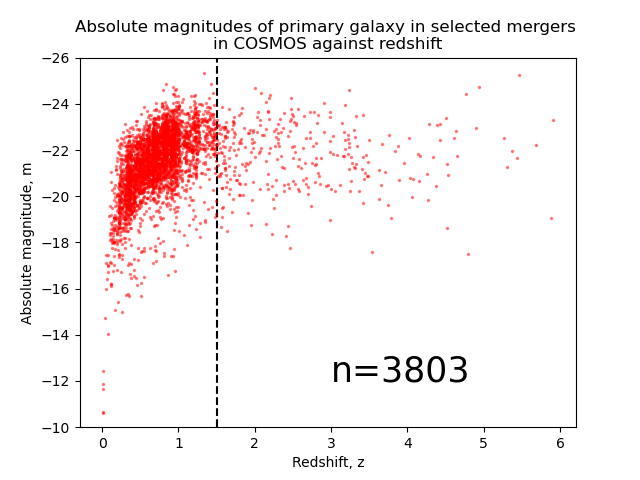
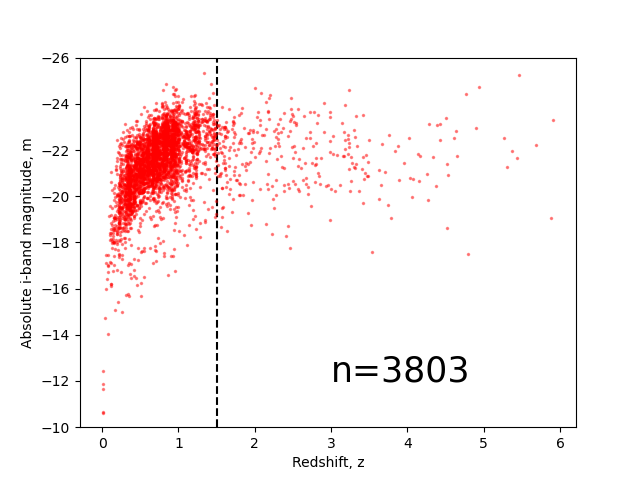
Added clearer y-axis

Changed region(s): [[0.125, 0.0312, 0.9062, 0.125], [0.0312, 0.2812, 0.0625, 0.7188]]

diff --git a/plots/plotting_code/main_plots/abs_mag_z.py b/plots/plotting_code/main_plots/abs_mag_z.py
@@ -143,9 +143,9 @@ def generate_i_band(data):
 
     plt.errorbar(z_pdf, i_mag, alpha=0.4, c='red',fmt='.', markersize=3, ecolor='black', elinewidth=1,label='i-mag')
     plt.plot([1.5] * (-10 - -27), [-10 - i for i in range(0, 17)], linestyle='--', c='black')
-    plt.title(f'Absolute magnitudes of primary galaxy in selected mergers \nin COSMOS against redshift')
+    # plt.title(f'Absolute magnitudes of primary galaxy in selected mergers \nin COSMOS against redshift')
     plt.xlabel('Redshift, z')
-    plt.ylabel('Absolute magnitude, m')
+    plt.ylabel('Absolute i-band magnitude, m')
     plt.ylim(-26, -10)
     plt.text(3, -12, f'n={n}', fontsize=25)
     ax = plt.gca()
